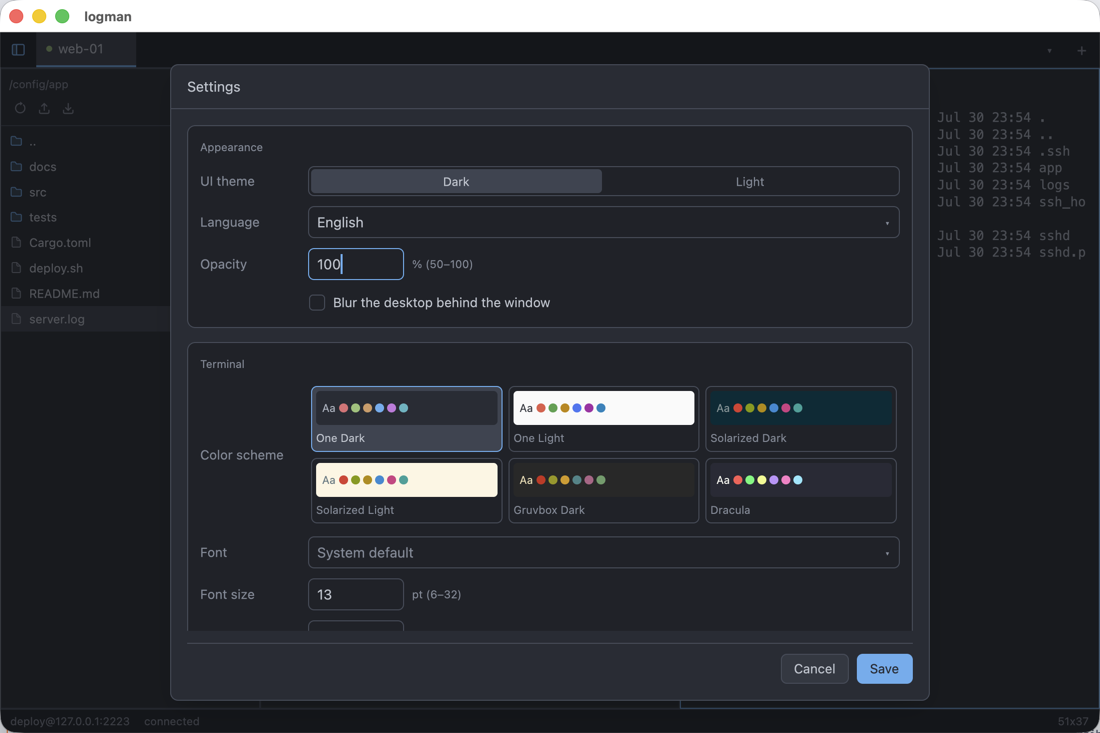
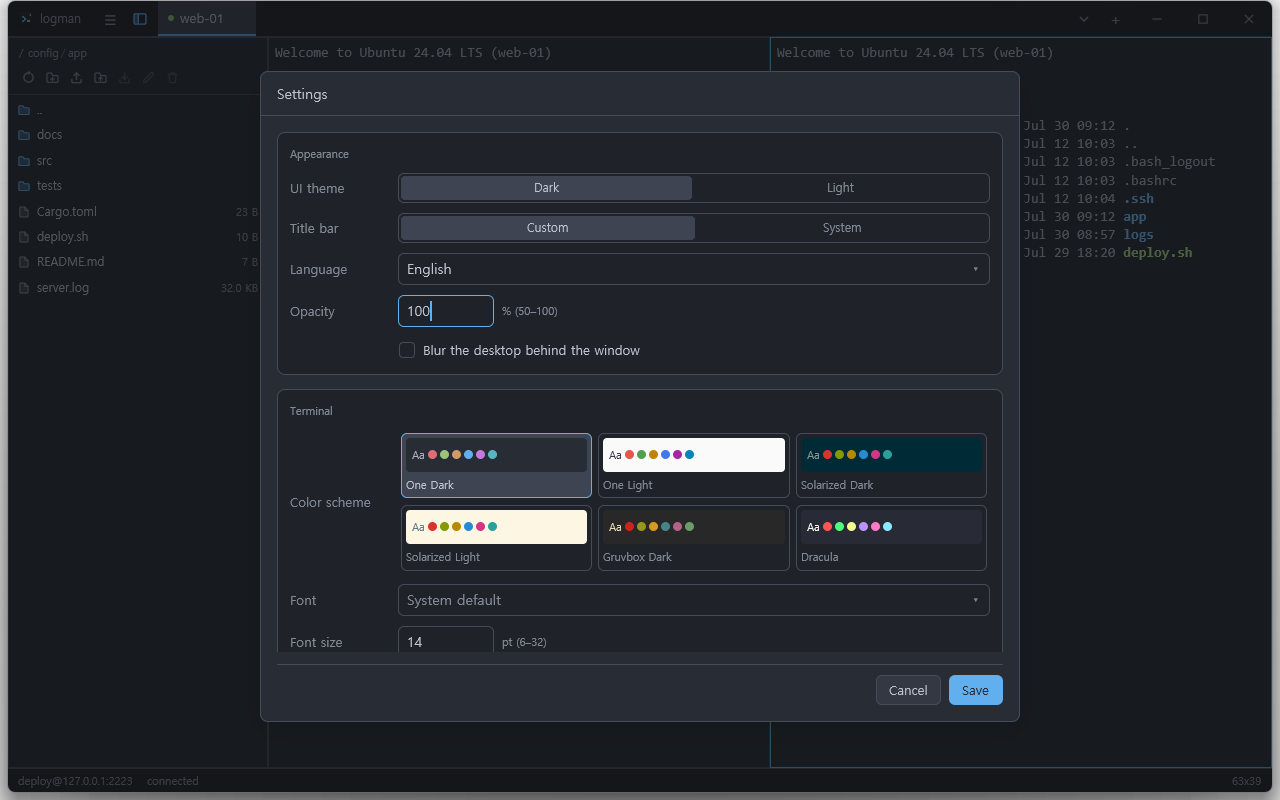
docs: recapture the screenshots with the tab-strip title bar
Both screenshots now show the custom title bar that is the new default
-- app icon and name, tabs and caption buttons in one strip -- and the
settings shot includes the row that switches it. The readme gains the
feature bullet, the settings mention, and an honest account of what the
vendored gpui now patches; the user guide documents the setting and
that it applies to the open window.

diff --git a/README.md b/README.md
@@ -18,7 +18,8 @@ A multi-platform GUI SSH terminal written in Rust, built on
 </details>
 
 - **Multiple sessions** in one window, as tabs, each with its own connection and
-  scrollback.
+  scrollback — and the tab strip doubles as the window's title bar, VS Code
+  style, with the system caption one setting away for those who prefer it.
 - **Split panes**: split a pane into a second connection to the same host with
   one shortcut, or pull an open tab in beside another, and work in both sessions
   at once, dragging the divider to give either as much room as it needs; a pane
@@ -54,18 +55,25 @@ tooling. Do not re-enable russh's default features.
 
 ### gpui is vendored and patched
 
-`vendor/gpui` is gpui 0.2.2 with a three-line fix, wired in through
-`[patch.crates-io]`. Upstream's Windows message pump calls
-`DispatchMessageW` without `TranslateMessage` and compensates by calling
-`TranslateMessage` re-entrantly from inside the window procedure. TSF correlates
-translated keys against the message queue, so ending a Korean composition with
-the Han/Yeong key leaves CTF regenerating `WM_IME_COMPOSITION` forever and the
-process pinned at 100% CPU.
+`vendor/gpui` is gpui 0.2.2 with a small set of local patches, wired in through
+`[patch.crates-io]`:
+
+- **Windows IME fix.** Upstream's message pump calls `DispatchMessageW` without
+  `TranslateMessage` and compensates by calling `TranslateMessage` re-entrantly
+  from inside the window procedure. TSF correlates translated keys against the
+  message queue, so ending a Korean composition with the Han/Yeong key leaves
+  CTF regenerating `WM_IME_COMPOSITION` forever and the process pinned at 100%
+  CPU.
+- **`Window::set_titlebar_transparent`.** Upstream only decides at window
+  creation whether the platform caption exists; this API flips it on a live
+  window, which is what lets the title bar setting apply without a restart.
+- Smaller fixes: window background blur on macOS Tahoe, and explicit `f32`
+  suffixes in `taffy.rs` float literals.
 
 The vendored source is otherwise identical to the published crate, so
-`diff -r` against the registry copy shows exactly the patched files. Drop
-`vendor/gpui`, the `[patch.crates-io]` entry and the `exclude` line once a
-released gpui carries the fix — nothing under `crates/` depends on the patch.
+`diff -r` against the registry copy shows exactly the patched files. Retiring
+the vendor needs a released gpui that carries the IME fix and a public way to
+retheme the caption at runtime; until then the patches ride along here.
 
 ### Release builds on Windows need `fxc.exe`
 
@@ -224,7 +232,9 @@ keychain the application still runs; it just asks for the secret every time.
 
 <kbd>Ctrl</kbd>+<kbd>,</kbd> (<kbd>Cmd</kbd>+<kbd>,</kbd> on macOS) opens the
 settings dialog: interface language (eight are built in; the default follows
-the system locale), UI theme, terminal color scheme (One Dark, One Light,
+the system locale), UI theme, title bar style — logman's own tab-strip title
+bar or the system caption, swapped on the open window as soon as the change is
+saved — terminal color scheme (One Dark, One Light,
 Solarized Dark/Light, Gruvbox Dark, Dracula — each shown with a live
 preview), font family — picked from the fonts installed on the machine — and
 size, scrollback depth, `TERM`, copy-on-select, window background opacity and

diff --git a/docs/user-guide.md b/docs/user-guide.md
@@ -504,6 +504,7 @@ sections.
 | Setting | Values | Notes |
 | --- | --- | --- |
 | **UI theme** | Dark, Light | Dark by default. Also recolours the window caption on Windows. |
+| **Title bar** | Custom, System | Custom by default: the tab strip doubles as the title bar, with the application name at one end and the window buttons at the other. System brings back the caption the operating system draws. |
 | **Language** | System default, or one of eight | German, English, Spanish, French, Japanese, Korean, Russian, Simplified Chinese. Each is listed under its own name. |
 | **Opacity** | 50–100% | Below 100 the window becomes translucent. |
 | **Blur the desktop behind the window** | on/off | Where the platform supports it. Blur wins over plain translucency. |
@@ -536,6 +537,9 @@ elsewhere.
 ### When a change takes effect
 
 - **UI theme, language, opacity, blur** — immediately, across the whole window.
+- **Title bar** — immediately on Windows and macOS: the open window swaps its
+  caption in place. On Linux the window keeps the compositor's title bar either
+  way.
 - **Color scheme and font** — immediately, in every open session, background
   tabs included.
 - **`TERM`, keepalive, connect timeout** — on the next connect or reconnect. The
